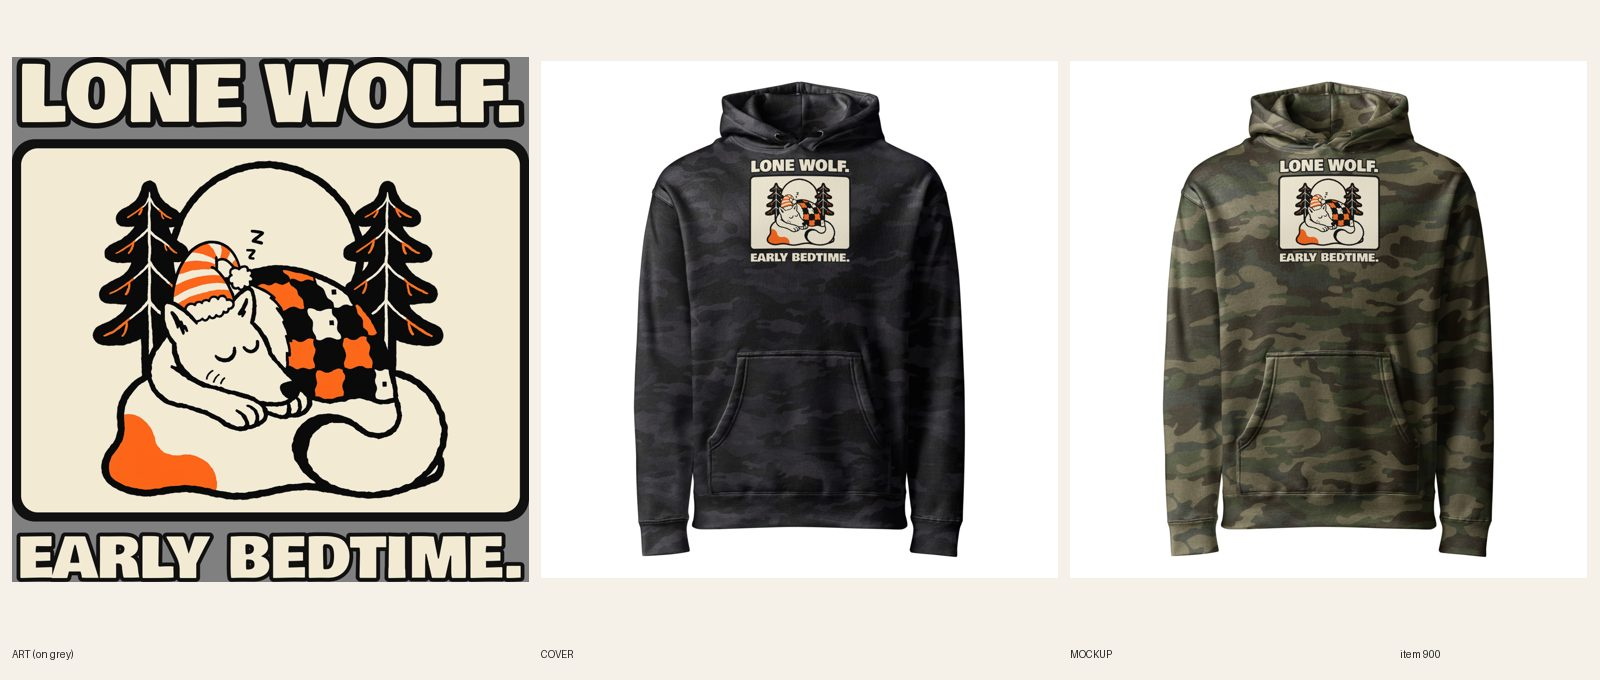
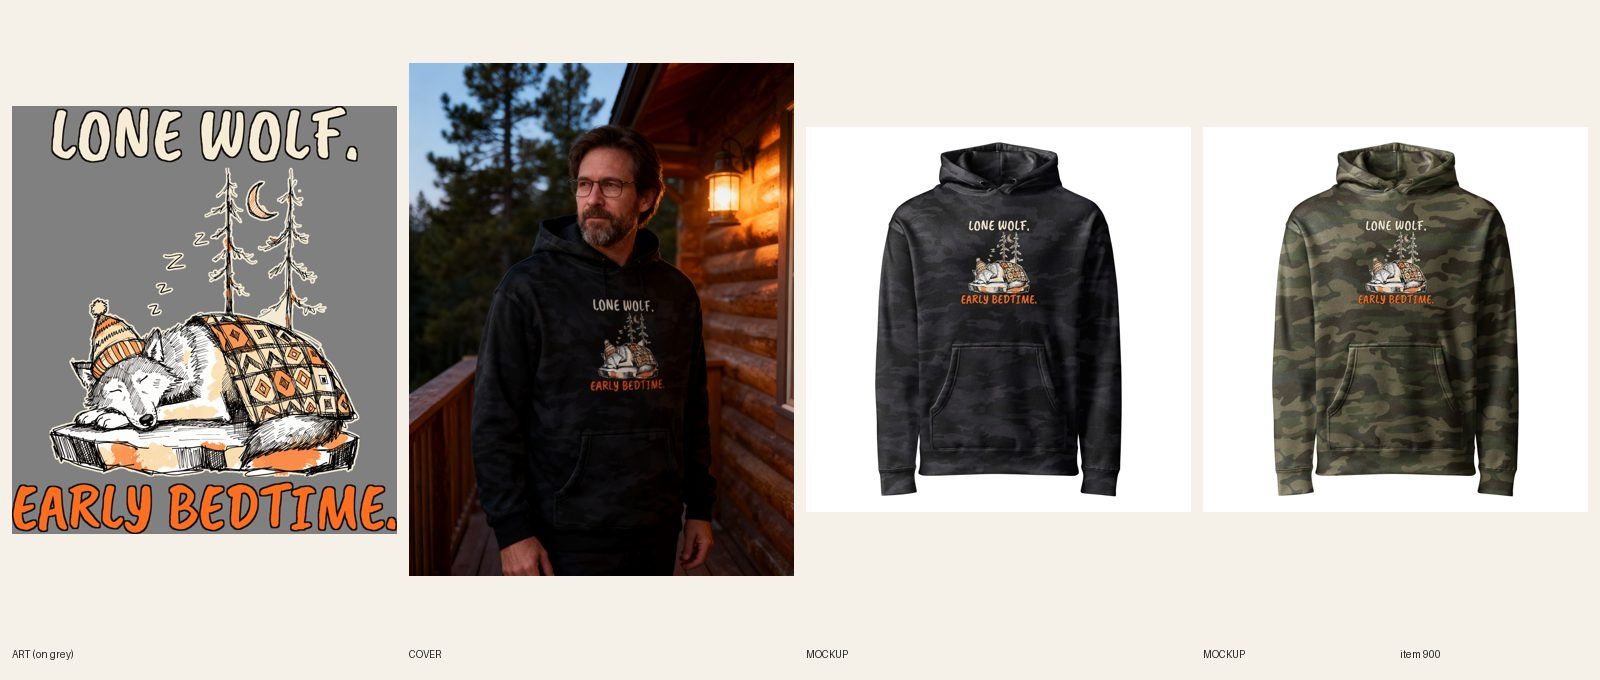
[B] review 900 camo redo 23 (sketchbook wolf A+, lifestyle photos)

diff --git a/designs/b900/lock.py b/designs/b900/lock.py
@@ -1,0 +1,15 @@
+import sys, subprocess; sys.path.insert(0, '.')
+from designs.lib import *
+from PIL import Image
+W = 3000; DARK = (20, 16, 12, 255)
+subprocess.run(['/usr/bin/python3', 'scripts/camo-halo.py', 'designs/b900/art_p.png', 'designs/b900/art_h.png', '40', '16'], check=True)
+ah = Image.open('designs/b900/art_h.png').convert('RGBA'); ah = ah.crop(ah.getbbox())
+AW = 2400; ah = ah.resize((AW, int(ah.height * AW / ah.width)), Image.LANCZOS)
+h = line('LONE WOLF.', 'caveat', 0.80, W, CREAM, DARK, kw=23)
+p = line('EARLY BEDTIME.', 'caveat', 1.0, W, (255, 110, 30, 255), DARK, kw=23)
+gap = 40; H = h.height + gap + ah.height + gap + p.height; out = Image.new('RGBA', (W, H), (0, 0, 0, 0))
+out.alpha_composite(h, ((W - h.width) // 2, 0)); out.alpha_composite(ah, ((W - ah.width) // 2, h.height + gap)); out.alpha_composite(p, ((W - p.width) // 2, h.height + gap + ah.height + gap))
+out = out.crop(out.getbbox()); out.save('docs/print-files/900-lone-wolf.png', dpi=(300, 300))
+print(out.size, 'headline', h.width, 'punch', p.width, round(100*p.width/h.width), '%', 'caps', h.height, p.height, 'subject %', round(100*ah.width/out.width), 'FW1500 h', round(1500 * out.height / out.width), 'punch cap at FW1500', round(p.height*1500/out.width), 'bbox%', round(100*out.width/W))
+for n, c in (('black', (34, 30, 28, 255)), ('forest', (52, 62, 44, 255))):
+    b = Image.new('RGBA', out.size, c); b.alpha_composite(out); b.convert('RGB').resize((600, int(600 * out.height / out.width))).save(f'designs/b900/prev_{n}.png')

diff --git a/designs/lib.py b/designs/lib.py
@@ -4,7 +4,7 @@ FD = 'designs/fonts/'
 CREAM = (246, 236, 214, 255)
 F = dict(alfa='AlfaSlabOne-Regular.ttf', anton='Anton-Regular.ttf', bevan='Bevan-Regular.ttf', big='BigShouldersDisplay[wght].ttf', bowlby='BowlbyOne-Regular.ttf',
          cinzel='Cinzel[wght].ttf', fraunces='Fraunces[SOFT,WONK,opsz,wght].ttf', oswald='Oswald[wght].ttf', playfair='PlayfairDisplay[wght].ttf',
-         playfairi='PlayfairDisplay-Italic[wght].ttf', rye='Rye-Regular.ttf', graduate='Graduate-Regular.ttf', yellowtail='Yellowtail-Regular.ttf', interblack='InterDisplay-Black.otf', damion='Damion-Regular.ttf')
+         playfairi='PlayfairDisplay-Italic[wght].ttf', rye='Rye-Regular.ttf', graduate='Graduate-Regular.ttf', yellowtail='Yellowtail-Regular.ttf', interblack='InterDisplay-Black.otf', damion='Damion-Regular.ttf', caveat='CaveatBrush-Regular.ttf')
 VAR = dict(big=[900], cinzel=[900], fraunces=[9, 900, 60, 1], oswald=[700], playfair=[900], playfairi=[900])
 def line(text, font, wfrac, W, fill, key, kw=27, track=0):
     ff = F[font]; var = VAR.get(font)

diff --git a/docs/intake-log.md b/docs/intake-log.md
@@ -1,4 +1,5 @@
 RUNNING lane B since 2026-10-28 13:48 UTC
+2026-10-28 14:01 UTC — [B] REVIEW #900 Men's Wolf – Lone Wolf. Early Bedtime. Camo Hoodie (camo-redo 23 of 27, S5 on A+, FW1500 TOP400, 14/14 on 1097157872, headline 2376 / punch 2981 px = 125%, subject 81%, Caveat Brush; 2 lifestyle photos). Product ACTIVE, director to confirm. fal ~$0.17
 2026-10-27 23:51 UTC — [H] Helper run: Telegram inbox empty (getUpdates returned 0 updates; nothing to consume, no pause/resume/TikTok). Shopify: 0 orders in total (list-orders returned none), so no order alert and no Printful hold check. Audit 744 live products: 0 errors, 445 warnings left alone; no scripted fixes; committed docs/cohesion-audit.md and .json (npm ci first; node_modules symlink restored after). Category check: 0 products without a Shopify category (no mutation). Site check: mens-hunting-full-draw-zero-deer-camo-hoodie, mens-eagle-bald-by-choice-camo-hoodie and unisex-possum-playing-dead-camo-hoodie all 200; homepage 200. Stuck work: no item in BUILDING status; no lane lock held. Daily summary not due (sent 14:46 today). Lock released.
 2026-10-27 23:23 UTC — [D] Director run: inbox nothing new from Sam. Reviewed 4 camo redo sheets, all LIVE in place (already ACTIVE, not new products): #231 Opening Day (S1 buck on A+), #293 Zero Deer (S4 retro bow on B3; Story fix: 'striped sunset' had no sun, now 'bold retro stripes'), #834 Papa Has a Spot (S8 shushing icon on A+, copied to reference/best), #833 Kept It Anyway catfish (S2 field guide on B3, cap on the 53 px floor); audit --handle PASS on all four (1 warn each: retired cover), pages 200. Camo redo now 22 of 27 done. No new LIVE products: Oct 27 Chicago cap (6) reached at the 15:07 run; the approved queue waits for the Oct 28 day. Article #1000 christmas-gifts-for-boss (4,400 / KD 14) approved and live (8 picks ACTIVE, links 200, astro build 114 pages); #1001 girlfriend waits for tomorrow (2-article day cap). No new briefs: 56 READY, over the 6-12 target. Writer asks for a measured cropped-hoodie article phrase (RankHero returned none); left for a run with DataForSEO or Search Console data. No Telegram (not a digest run; nothing needs Sam). Lock released.
 2026-10-27 21:58 UTC — [B] Builder run end: 2 items, camo redo #21 #834 (Papa shushing icon, A+) and #22 #833 (Catfish field-guide, B3); both ACTIVE, director to confirm. New products today: 0 of 6. fal ~$0.8. Lock released.

diff --git a/docs/pipeline/900-camo-twin-lone-wolf.md b/docs/pipeline/900-camo-twin-lone-wolf.md
@@ -1,4 +1,4 @@
-status: BUILDING [B]
+status: REVIEW
 shopify: gid://shopify/Product/15372523077936
 cover: fal-swap
 lane: B
@@ -31,3 +31,4 @@ push: camo
 - 2026-10-22 23:16 UTC director: LIVE (ACTIVE + Online Store, Headless, Google & YouTube); cohesion-audit --handle PASS (1 warn: no lifestyle cover). Drip cap: today's 6 (#907 #908 #900 #901 #902 #955).
 - 2026-10-22 22:00 UTC Claude (Sam): REDO, camo redo #23 of 27, style S5. New art in its own style, no box, no condensed sans, placement per docs/backlog/camo-redo.md (never TOP 0). Redo in place.
 - 2026-10-22 22:40 UTC Claude (Sam): placement A/B test, this item is A+ (center 10 in, tag placement-a).
+- 2026-10-28 14:01 UTC [B]: camo-redo #23 (S5 sketchbook wolf on A+, tag placement-a), in place on product 15372523077936, product ACTIVE. New art: 1 Recraft call (black ink, cream and blaze orange washes, no words), thin cream halo, no box; LONE WOLF. cream above, EARLY BEDTIME. blaze orange below, Caveat Brush (lane B last faces: Bevan, Cinzel, Bowlby, Playfair, Yellowtail, Fraunces, Graduate; not among them). Print 2981 x 3316, FW1500 TOP400 (TOP+h 2069 <= 2100), headline 2376 / punch 2981 px = 125%, subject 2400 of 2981 = 81%, punch cap 204 px at FW1500 (floor 90). 14/14 on file 1097157872 (verified from Printful sync), back logo 1080398177 on 14/14. Front mockups replaced in place (fileUpdate), copy, alts, SEO, placement-a tag. Title unchanged (line kept, 7i n/a). Phone-size read of Black and Forest OK. Photos: registry 1172 and 1173 (1 call each, lettering correct), images 1-2, back last. Handle in retired-covers. Sheet docs/review/900.jpg. fal ~$0.17 incl. art.

diff --git a/docs/model-registry.md b/docs/model-registry.md
@@ -964,3 +964,5 @@ Rows 11–43 were re-pointed on 2026-10-08 when the briefs were rewritten from d
 | 1169 | Hispanic man, late 40s, short wavy dark hair with grey temples, salt-and-pepper stubble, medium build, no hat | USED 2026-10-27 — #834 Papa Has a Spot camo hoodie photo 2 (seedream, 1 call) |
 | 1170 | Black man, early 50s, short grey-flecked beard, shaved head, broad friendly build, no hat | USED 2026-10-27 — #833 Catfish camo hoodie photo 1 (seedream, 1 call) |
 | 1171 | white man, late 30s, sandy hair, light stubble, lean build, no hat | USED 2026-10-27 — #833 Catfish camo hoodie photo 2 (seedream, 3 calls) |
+| 1172 | white man, early 40s, dark brown hair, short beard, glasses, medium build, no hat | USED 2026-10-28 — #900 Lone Wolf camo hoodie photo 1 (seedream, 1 call) |
+| 1173 | Hispanic man, mid 30s, black wavy hair, clean-shaven, lean build, no hat | USED 2026-10-28 — #900 Lone Wolf camo hoodie photo 2 (seedream, 1 call) |
